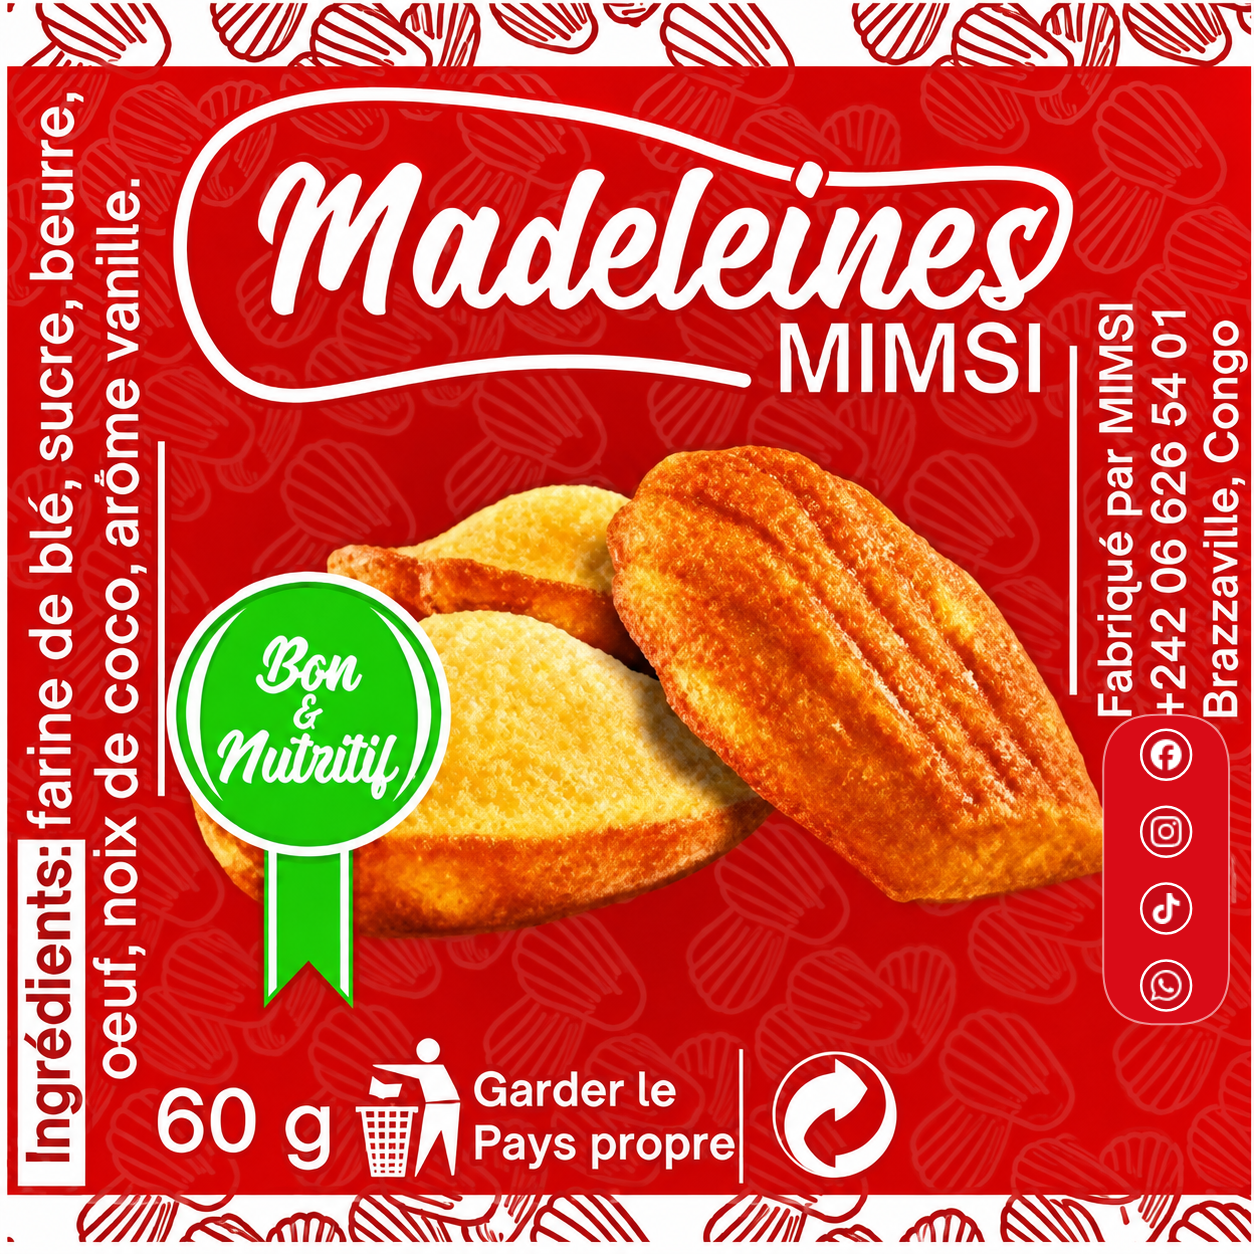
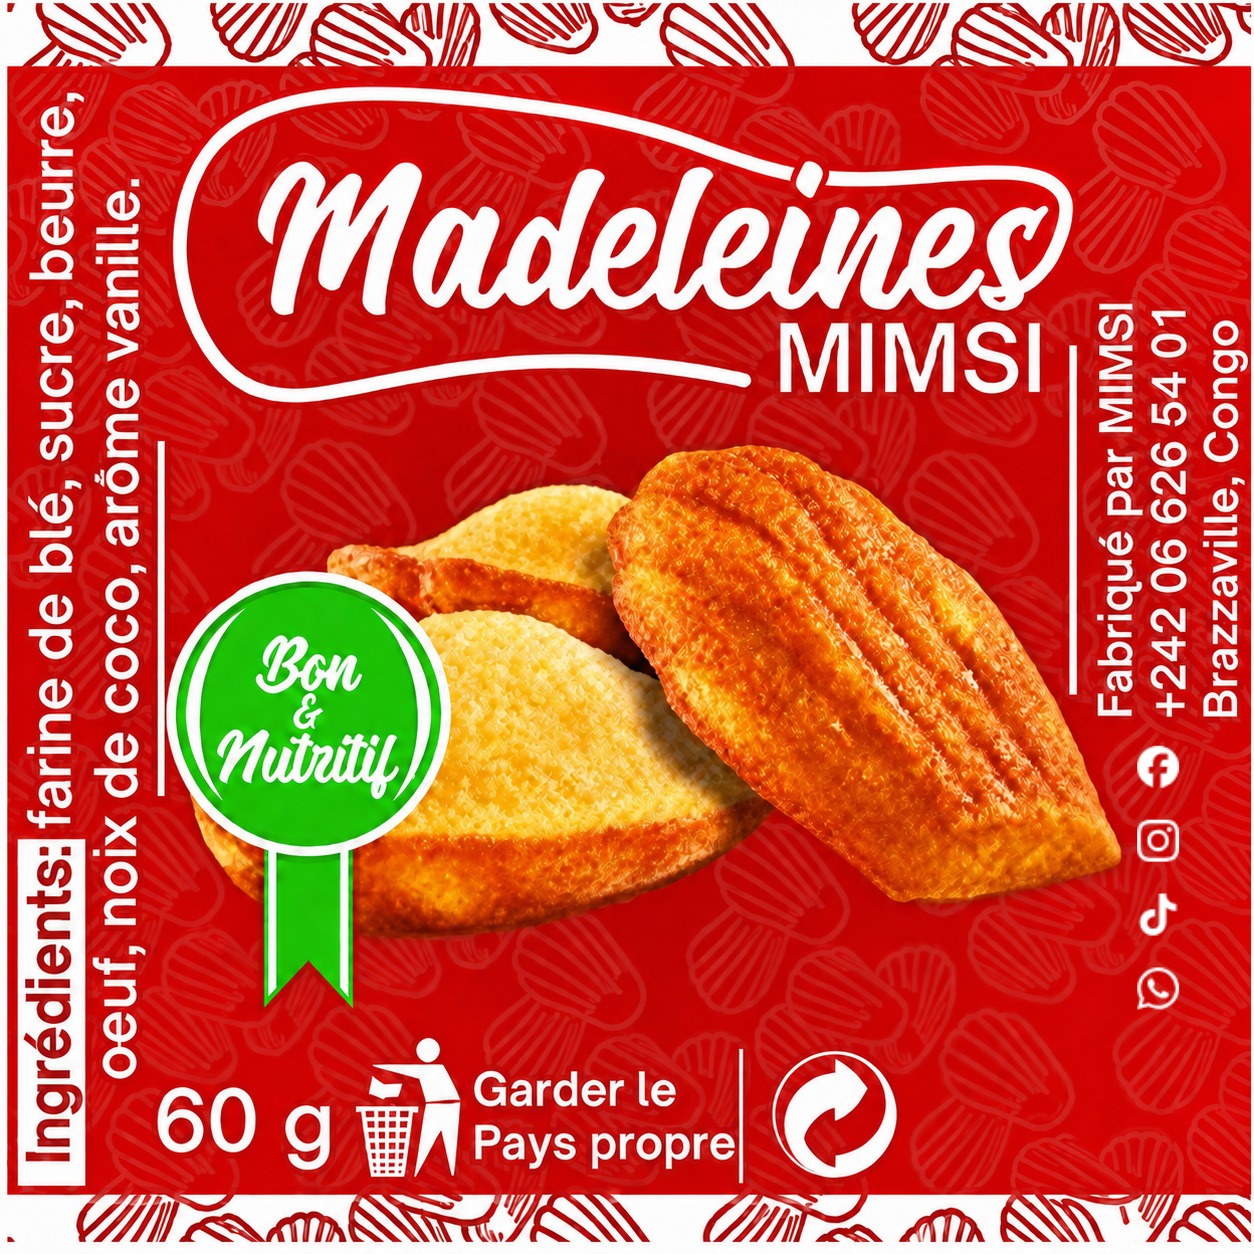
style: intégrer les pictogrammes au fond de l’étiquette

diff --git a/public/sw.js b/public/sw.js
@@ -1,4 +1,4 @@
-const CACHE_NAME = 'mimsi-distribution-v87';
+const CACHE_NAME = 'mimsi-distribution-v88';
 const PHOTO_CACHE_NAME = 'mimsi-attendance-photos-v1';
 const PRECACHE_URLS = [
   '/',
